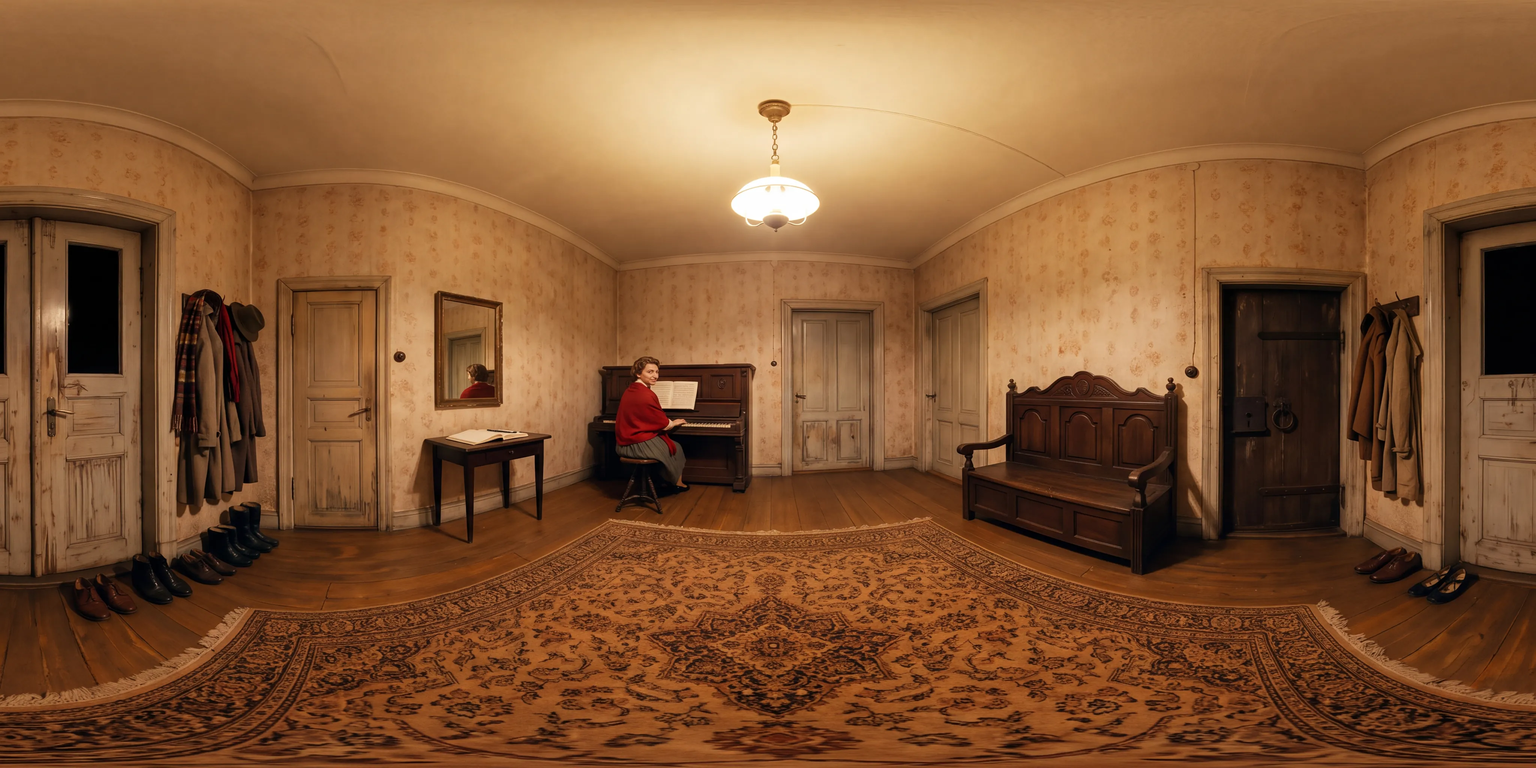
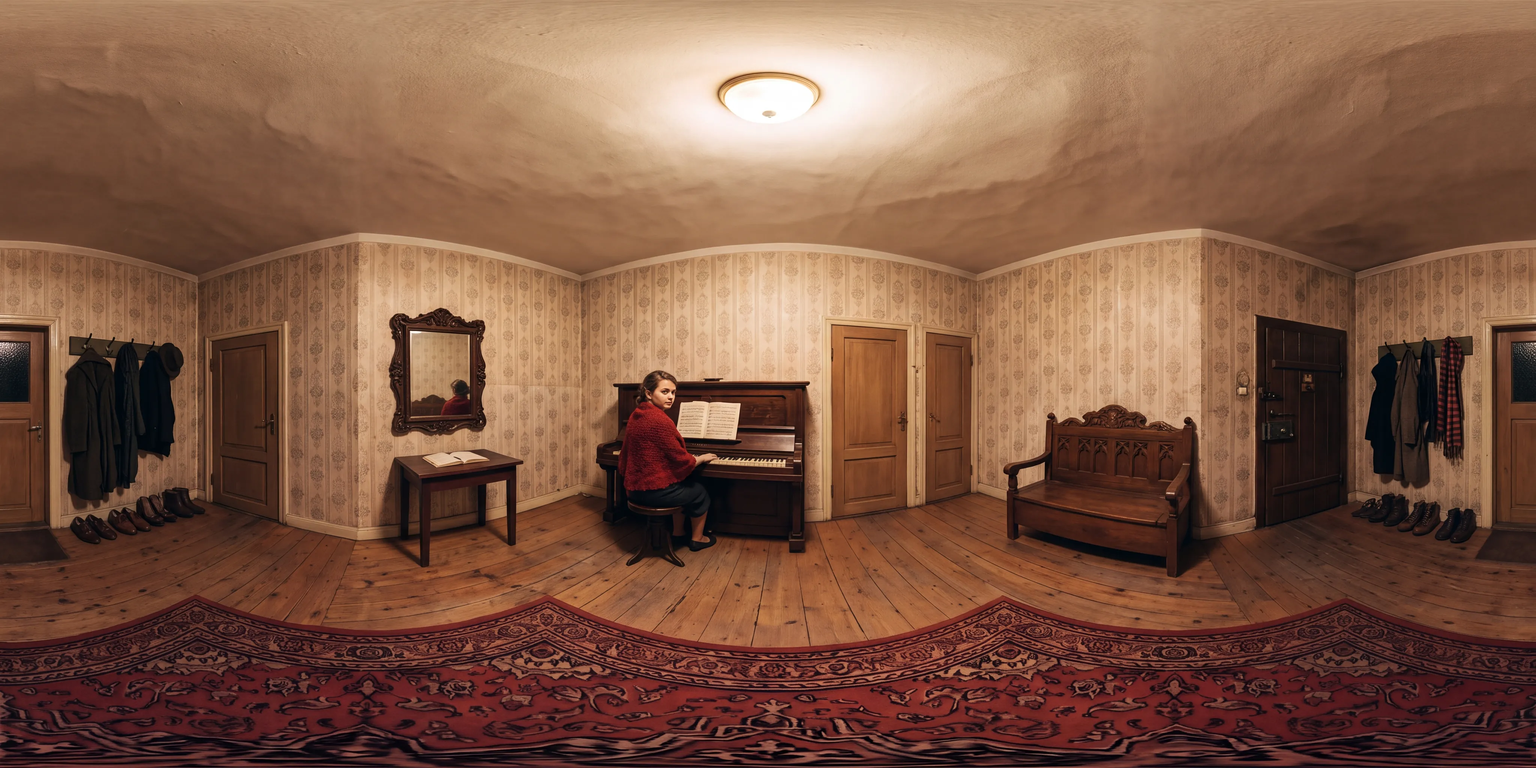
Ta fram hallen mitt i rummet och med 1962 före i dag
Betraktaren står alltid mitt i rummet, och bilden från 1962 tas fram
först så att inga skavanker syns i minnet (Jonas 2026-11-20). Gemini
målar på en ritad mall av rummet från tools/rundbildsmall.py.

Claude-Session: https://claude.ai/code/session_01X82C4CqheV7jTaXH9cVkV3

diff --git a/src/config.ts b/src/config.ts
@@ -6,4 +6,4 @@ export const SUPABASE_PUBLIC_KEY = 'sb_publishable_aa--NTfRkU6vqDZUqgXMPw_o2LBJh
 
 // Visas på sidan och i felsökningsloggen, så att det syns om mobilen kör en
 // gammal sida ur cachen. Höjs vid varje ändring av webbsidan.
-export const VERSION = '2026-11-20.76';
+export const VERSION = '2026-11-20.77';

diff --git a/tools/rundbildsmall.py b/tools/rundbildsmall.py
@@ -1,0 +1,63 @@
+"""Ritar ett rum som en enkel låda i equirektangulär projektion, som mall åt Gemini.
+
+Betraktaren står mitt i ett kvadratiskt rum, så att varje vägg blir en fjärdedel
+av varvet. Gemini får mallen tillsammans med prompten och målar rummet på den,
+så att hörn, dörrar och möbler hamnar rätt (Jonas 2026-11-20). Färgerna betyder
+inget i sig. Prompten säger vad varje färgad yta är.
+
+Körs med: python3 tools/rundbildsmall.py ut.png
+Rummet nedan är hallen. Ett annat rum får egna rect-rader.
+"""
+import sys
+import numpy as np
+from PIL import Image
+W, H = 2752, 1376
+EYE, CEIL, HALF = 1.6, 3.0, 2.5
+lon = (np.arange(W) + 0.5) / W * 2 * np.pi - np.pi
+lat = np.pi / 2 - (np.arange(H) + 0.5) / H * np.pi
+LON, LAT = np.meshgrid(lon, lat)
+dx, dy, dz = np.cos(LAT) * np.sin(LON), np.sin(LAT), np.cos(LAT) * np.cos(LON)
+img = np.zeros((H, W, 3))
+np.seterr(divide='ignore', invalid='ignore')
+def hit(t):
+    return np.where(t > 0, t, np.inf)
+ts = {
+  'back': hit(HALF / np.where(dz != 0, dz, 1e-9)) * (dz > 0) + np.where(dz > 0, 0, np.inf),
+  'front': hit(-HALF / np.where(dz != 0, dz, 1e-9)) * (dz < 0) + np.where(dz < 0, 0, np.inf),
+  'right': hit(HALF / np.where(dx != 0, dx, 1e-9)) * (dx > 0) + np.where(dx > 0, 0, np.inf),
+  'left': hit(-HALF / np.where(dx != 0, dx, 1e-9)) * (dx < 0) + np.where(dx < 0, 0, np.inf),
+  'ceil': hit((CEIL - EYE) / np.where(dy != 0, dy, 1e-9)) * (dy > 0) + np.where(dy > 0, 0, np.inf),
+  'floor': hit(-EYE / np.where(dy != 0, dy, 1e-9)) * (dy < 0) + np.where(dy < 0, 0, np.inf),
+}
+names = list(ts); T = np.stack([np.nan_to_num(ts[n], nan=np.inf, posinf=np.inf) for n in names]); idx = T.argmin(0); t = T.min(0)
+X, Y, Z = dx * t, dy * t + EYE, dz * t
+WALL = np.array([200, 196, 188]); CEILC = np.array([225, 225, 225]); FLOOR = np.array([150, 120, 90])
+DOOR = np.array([110, 70, 40]); FRONTDOOR = np.array([60, 90, 160]); CELLAR = np.array([40, 40, 40])
+PIANO = np.array([30, 20, 15]); STOOL = np.array([90, 40, 40]); BENCH = np.array([140, 90, 30]); TABLE = np.array([160, 120, 60])
+MIRROR = np.array([170, 210, 230]); HOOKS = np.array([90, 130, 90]); RUG = np.array([170, 60, 60])
+img[:] = WALL
+img[idx == names.index('ceil')] = CEILC
+fl = idx == names.index('floor'); img[fl] = FLOOR
+img[fl & (abs(X) < 1.5) & (abs(Z) < 1.5)] = RUG
+def rect(wall, a, b, h0, h1, col, coord):
+    m = (idx == names.index(wall)) & (coord > min(a, b)) & (coord < max(a, b)) & (Y > h0) & (Y < h1); img[m] = col
+rect('back', -1.8, -0.4, 0, 1.3, PIANO, X)
+rect('back', 0.5, 1.4, 0, 2.1, DOOR, X)
+rect('back', 1.55, 2.4, 0, 2.1, DOOR, X)
+rect('right', 1.0, -0.3, 0, 1.2, BENCH, Z)
+rect('right', -1.4, -2.3, 0, 2.1, CELLAR, Z)
+rect('left', -2.3, -1.4, 0, 2.1, DOOR, Z)
+rect('left', 0.0, 0.9, 0, 0.8, TABLE, Z)
+rect('left', 0.1, 0.8, 1.2, 1.9, MIRROR, Z)
+rect('front', -0.5, 0.5, 0, 2.1, FRONTDOOR, X)
+rect('front', 0.7, 1.5, 1.1, 1.8, HOOKS, X)
+rect('front', -1.5, -0.7, 1.1, 1.8, HOOKS, X)
+# pianopallen på golvet framför pianot
+img[fl & (X > -1.3) & (X < -0.9) & (Z > 1.9) & (Z < 2.3)] = STOOL
+# hörn och golvlister som mörka linjer
+edge = np.zeros((H, W), bool)
+for a, b in [(X, HALF), (X, -HALF), (Z, HALF), (Z, -HALF)]:
+    edge |= (abs(abs(a) - HALF) < 0.012) & (idx < 4) & (abs(abs(X) - HALF) < 0.012) & (abs(abs(Z) - HALF) < 0.012)
+edge |= (idx < 4) & ((Y < 0.02) | (Y > CEIL - 0.02))
+img[edge] = 20
+Image.fromarray(img.astype('uint8')).save(sys.argv[1] if len(sys.argv) > 1 else 'rundbildsmall.png')

diff --git a/docs/koncept.md b/docs/koncept.md
@@ -266,7 +266,7 @@ Huset är en rektangel med en våning och källare. Övervåningen är borttagen
 
 - **Hallen.** Dörren till salongen sitter längst till höger i hallens bortre vägg, med pianot till vänster om den. Dörren till köket sitter strax till höger om salongsdörren. Dörren till sovrummet sitter långt ner på vänstra väggen. I högra hörnet vid ytterväggen ligger källartrappan, bakom den låsta källardörren (Jonas 2026-11-18). Väggen vid källardörren går hela vägen från köket ner till ytterväggen, och dörren sitter längst ner i den (Jonas 2026-11-20). Trappan fyller utrymmet mellan väggen, köket och ytterväggen och är en vinkeltrappa: den börjar längst ner vid källardörren, går längs ytterväggen och svänger i hörnet (Jonas 2026-11-20). Trappan upp till övervåningen är borttagen (Jonas 2026-11-20). Mellan köksdörren och källardörren står en hallsoffa i mörkt trä med hög rygg. Den har ingen funktion i spelet (Jonas 2026-11-20).
 - **Salongen i mitten.** Alla rum nås från hallen. Salongen har dessutom en dörr till sovrummet och en till köket (Jonas 2026-11-20). Dörren till sovrummet sitter i salongens vänstra vägg och dörren till köket i den högra, båda längst bort från hallen (Jonas 2026-11-20).
-- **Dörrarna i rundbilderna.** I rundbilderna är alla rum kvadratiska, så att varje vägg blir en fjärdedel av varvet (Jonas 2026-11-18). Dörrarna ska sitta på rätt ställe i rummen enligt planlösningen, och i beskrivningen till Gemini anges varje dörr med vägg och läge, till exempel vänstra väggen nära hörnet mot ytterväggen (Jonas 2026-11-18). Gemini följer inte alltid beskrivningen exakt, så de tryckbara dörrarna placeras där de hamnade i bilden, och en bild med en dörr på fel vägg tas fram på nytt.
+- **Dörrarna i rundbilderna.** I rundbilderna är alla rum kvadratiska, så att varje vägg blir en fjärdedel av varvet (Jonas 2026-11-18). Dörrarna ska sitta på rätt ställe i rummen enligt planlösningen, och i beskrivningen till Gemini anges varje dörr med vägg och läge, till exempel vänstra väggen nära hörnet mot ytterväggen (Jonas 2026-11-18). Gemini följer inte alltid beskrivningen exakt, så de tryckbara dörrarna placeras där de hamnade i bilden, och en bild med en dörr på fel vägg tas fram på nytt. Betraktaren står alltid mitt i rummet (Jonas 2026-11-20). Gemini får därför en ritad mall av rummet i rätt projektion, `tools/rundbildsmall.py`, och målar rummet på den. Bilden från 1962 tas fram först, när allt är helt och rent, och bilden från i dag är en redigering av den, så att inga skavanker syns i minnet (Jonas 2026-11-20).
 
 ### Nu och 1962
 

diff --git a/docs/rundbilder-prov.md b/docs/rundbilder-prov.md
@@ -203,3 +203,26 @@ fotot igen, med mattan som i tuschbilden (Jonas 2026-11-20).
   2026-11-20). Stilproven och källarbilderna finns kvar i git-historiken.
   `kallare-stor.webp` ligger kvar, eftersom den vilande källaruppgiften
   använder den.
+
+## Mitt i rummet, och 1962 före i dag
+
+Ägaren såg att betraktaren stod nära ytterdörren i stället för mitt i rummet,
+och att skavanker från dagens bild syntes i bilden från 1962 (Jonas
+2026-11-20). Hallen togs därför fram på nytt i omvänd ordning.
+
+- **Mitt i rummet.** Text räckte inte. Med en prompt som angav var hörnen
+  ska ligga ritade Gemini konstiga utstickande hörn. I stället ritar
+  `tools/rundbildsmall.py` rummet som en låda i rätt projektion, med färgade
+  ytor för dörrar, möbler och matta. Gemini får mallen och en lista över vad
+  varje färg är. Ett av två försök följde mallen. Det andra struntade i den.
+- **Rättningar.** Gemini tog några färger bokstavligt: ytterdörren blev blå,
+  väggen vid den grön och pianopallen fick en egen röd matta. En redigering
+  rättade det. En till tog bort en dörr för mycket i hörnet vid köket.
+- **I dag från 1962.** Tuschbilden från i dag är en redigering av 1962-bilden:
+  ingen vid pianot, pallen kvar, damm, fuktfläckar, spindelväv, dött ljus och
+  månsken. Fotot från 1962 är tuschbilden från 1962 gjord till foto. Fotot
+  från i dag gjordes först från fotot från 1962, men då fick sovrumsdörren
+  och salongsdörren glasrutor. Det gjordes i stället från tuschbilden från i
+  dag, och då blev dörrarna rätt.
+- Skarven syns inte i någon av de fyra bilderna, och plankorna är raka när
+  man tittar nedåt.
